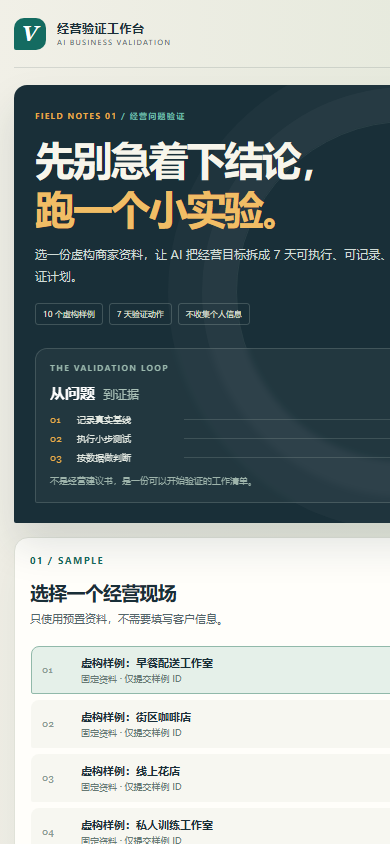
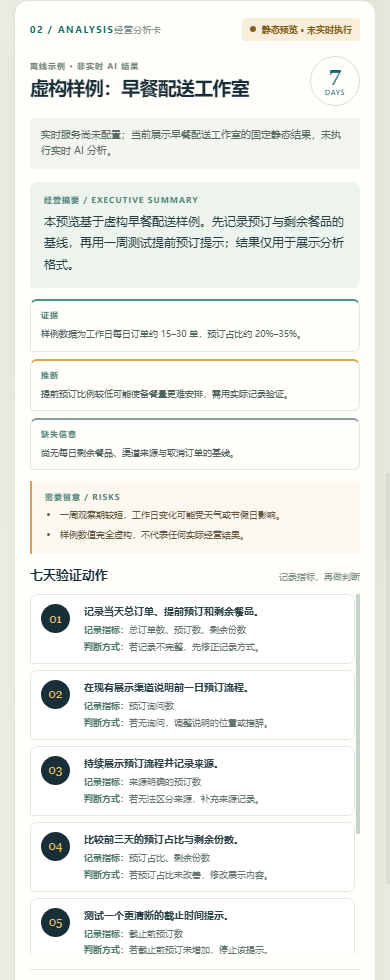
docs: clarify failure states and mobile evidence

diff --git a/tests/test_docs.py b/tests/test_docs.py
@@ -66,13 +66,19 @@ def test_failure_guide_documents_input_output_recovery_and_limits():
     failures = read_project_file("docs/failure-cases.md")
     case_study = read_project_file("docs/case-study.md")
 
-    for code in ("unknown_scenario", "dify_timeout", "dify_invalid_output", "feishu_auth_failed", "feishu_update_failed"):
+    for code in (
+        "unknown_scenario", "dify_timeout", "dify_invalid_output", "feishu_auth_failed",
+        "feishu_lookup_failed", "feishu_create_failed", "feishu_update_failed",
+    ):
         assert code in failures
     for label in ("输入", "用户看到", "恢复", "限制"):
         assert label in failures
     assert "流程" in case_study and "验证" in case_study
     assert "静态" in case_study
     assert "实时 AI 已验证" not in case_study
+    assert "feishu_auth_failed` 仅表示租户令牌获取失败" in failures
+    assert "feishu_update_failed` 无法确认最终记录状态" in failures
+    assert "手机端截图显示静态预览标记和分析结果" in case_study
 
 
 def test_vercel_entry_and_static_screenshots_are_present():

diff --git a/docs/failure-cases.md b/docs/failure-cases.md
@@ -7,8 +7,12 @@
 | 提交目录之外的样例 ID | 提示重新选择固定样例；HTTP 400 | `unknown_scenario` | 从页面的 10 个样例重新选择 | 不接受自由文本或用户自定义资料 |
 | Dify 执行超过 30 秒 | AI 分析超时，可安全重试 | `dify_timeout` | 使用同一请求 ID点“重试”，查找既有记录并更新，不新建第二条 | 函数整体处理预算有限；持续超时需运营者检查 Dify |
 | Dify 返回缺字段、无效 JSON 或未通过分析约束 | 结果未完成，可安全重试 | `dify_invalid_output` | 运营者检查并修复 Workflow 输出；访客复用原请求 ID | 不合格输出不会写成 `completed` |
-| 飞书应用凭证、权限或访问范围错误 | 演示表暂时无法连接 | `feishu_auth_failed` | 管理者检查应用凭证、权限、发布状态与多维表格访问范围 | 页面不展示飞书原始错误和凭证 |
-| 分析生成后更新记录失败 | 结果暂时无法保存，提示用同一请求重试 | `feishu_update_failed` | 修复表访问/字段配置后复用原请求 ID，更新同一条记录 | 记录保留在失败状态，不能假称写入成功 |
+| 获取飞书租户访问令牌失败（应用凭证无效、缺失或认证接口不可达） | 演示表暂时无法连接，请稍后重试 | `feishu_auth_failed` | 管理者检查 App ID/Secret 和认证接口状态 | 该码仅表示令牌获取失败；页面不展示上游正文或凭证 |
+| 查询请求 ID 对应的多维表格记录失败 | 暂时无法检查本次演示记录，请稍后重试 | `feishu_lookup_failed` | 管理者检查 app/table 标识、记录读取权限和飞书服务状态；修复后可用原请求重试 | 不能把查表错误误判为认证错误 |
+| 创建处理中演示记录失败 | 暂时无法保存演示记录，请稍后重试 | `feishu_create_failed` | 管理者检查专用演示表写入权限、字段名与服务状态；复用原请求 ID 重试 | 若上游已写入但响应丢失，重试会先按请求 ID 查找 |
+| 分析生成后，更新记录请求失败或响应异常 | 分析结果暂时无法保存，请使用相同样例重试 | `feishu_update_failed` | 管理者检查表访问和字段配置；复用原请求 ID，让服务先读取现有记录再恢复 | 失败响应无法确认写入是否生效；记录可能仍在处理中，也可能已完成 |
+
+`feishu_auth_failed` 仅表示租户令牌获取失败。`feishu_update_failed` 无法确认最终记录状态；重试时先按原请求 ID读取，若记录已完成则返回既有结果，否则继续使用已有关联记录。
 
 当前公开演示保持 `DEMO_MODE=false`，因此真实提交返回 `demo_disabled`，不会产生以上任一外部请求或写表。端到端失败恢复由本地确定性假服务验证，不是对线上 Dify/飞书可用性的实测声明。
 

diff --git a/README.md b/README.md
@@ -10,6 +10,8 @@
 
 ![静态预览 - 手机端](docs/screenshots/static-preview-mobile.png)
 
+手机端截图包含「静态预览 · 未实时执行」标记和固定分析结果。
+
 ## 它解决什么问题
 
 小商家常凭直觉决定要不要做促销、投广告或调整服务，却缺少一套轻量方法来记录基线、提出可验证的判断、安排下一步。这个演示把一份经营问题整理为证据、推断、缺失信息和 7 天行动，帮助使用者先跑一个小实验，再根据指标决定是否继续。

diff --git a/docs/case-study.md b/docs/case-study.md
@@ -30,6 +30,8 @@ flowchart LR
 
 ![静态预览 - 桌面端](screenshots/static-preview-desktop.png)
 
+手机端截图显示静态预览标记和分析结果。
+
 ![静态预览 - 手机端](screenshots/static-preview-mobile.png)
 
 ## 部署状态与限制
